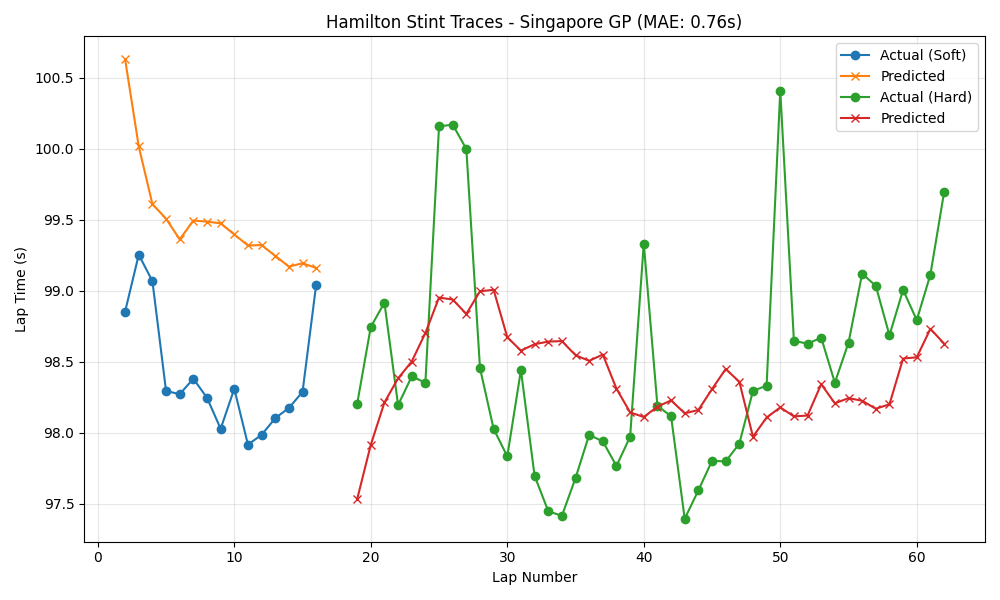
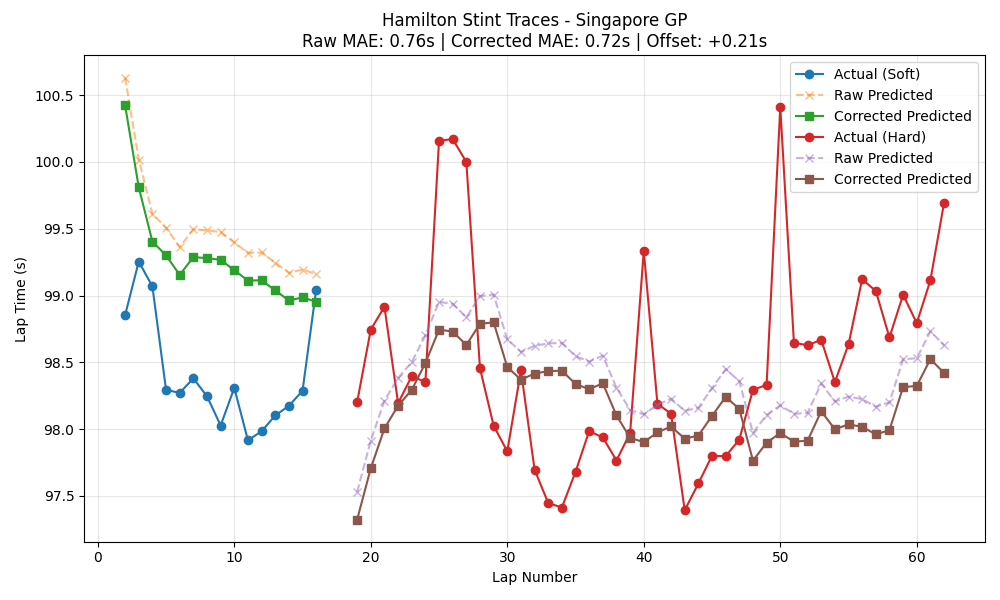
Added an offset to Lap Time Prediction

diff --git a/validation/validation.py b/validation/validation.py
@@ -10,20 +10,14 @@ from f1_gym.lap_predictor import LapPredictor
 from f1_gym.env.f1_real_env import F1RealEnv
 from data.fastf1_data_extraction import COMPOUND_MAP
 
-TEST_RACES = [
-    "Abu Dhabi Grand Prix",
-    "Austrian Grand Prix",
-    "Italian Grand Prix",
-    "Miami Grand Prix",
-    "Singapore Grand Prix",
-]
+TEST_RACES = ['Chinese Grand Prix', 'Hungarian Grand Prix', 'Singapore Grand Prix',
+                    'Bahrain Grand Prix', 'Mexico City Grand Prix']
 YEAR = 2024
 TEST_DIR = "data/test_races"
 OUTPUT_DIR = os.path.dirname(__file__)
 COMPOUND_NAMES = {1: "Soft", 2: "Medium", 3: "Hard"}
 
 # Checks how well the lap time model predicts lap times
-
 # Predicts on the same data the model was trained on
 # And leave-one-driver_out validation (train on all drivers, test on held out, repeat for each driver)
 def validate_lap_prediction(predictor: LapPredictor):
@@ -123,9 +117,56 @@ def validate_anchoring():
     df = pd.DataFrame(rows)
     return df
 
+# Computes the pace offset per race and shows the MAE improvement for HAM
+# Offset = mean(predicted - actual) on clean laps for target driver
+# Corrected prediction = raw prediction - offset
+def validate_pace_offset(predictor: LapPredictor):
+    rows = []
+
+    for race in TEST_RACES:
+        session = predictor.extractor.load_session(YEAR, race)
+        laps = session.laps.copy()
+        valid = laps[
+            (laps['IsAccurate'] == True) &
+            (laps['PitInTime'].isna()) &
+            (laps['PitOutTime'].isna())
+        ].copy()
+        valid["LapTimeSec"] = valid["LapTime"].dt.total_seconds()
+        valid["CompoundID"] = valid["Compound"].map(COMPOUND_MAP)
+        valid = valid.sort_values(["Driver", "LapNumber"])
+        valid["TyreAge"] = valid.groupby(["Driver", "Stint"]).cumcount() + 1
+        valid = valid[["Driver", "LapNumber", "TyreAge", "CompoundID", "LapTimeSec"]].dropna()
+        features = ["LapNumber", "TyreAge", "CompoundID"]
+
+        # Use model (trained on all drivers)
+        model = LapPredictor.load_model(race)
+        ham = valid[valid["Driver"] == "HAM"]
+        if ham.empty:
+            continue
+
+        raw_preds = model.predict(ham[features])
+        errors = raw_preds - ham["LapTimeSec"].values
+        offset = np.mean(errors)
+        corrected_preds = raw_preds - offset
+
+        mae_before = mean_absolute_error(ham["LapTimeSec"], raw_preds)
+        mae_after = mean_absolute_error(ham["LapTimeSec"], corrected_preds)
+
+        rows.append({
+            "Race": race,
+            "HAM Laps": len(ham),
+            "Offset (s)": round(offset, 3),
+            "MAE Before (s)": round(mae_before, 3),
+            "MAE After (s)": round(mae_after, 3),
+            "Improvement (s)": round(mae_before - mae_after, 3),
+        })
+
+    return pd.DataFrame(rows)
+
+
 # Removes target from testing
 # Trains random forest on all other drivers, test on target
-# Plots actual vs predicted across each stint
+# Plots actual vs predicted across each stint, with and without pace offset correction
 def plot_stint_traces(predictor: LapPredictor):
     plot_dir = os.path.join(OUTPUT_DIR, "stint_traces")
     os.makedirs(plot_dir, exist_ok=True)
@@ -151,18 +192,26 @@ def plot_stint_traces(predictor: LapPredictor):
         model = RandomForestRegressor(n_estimators=100, random_state=6)
         model.fit(train[features], train["LapTimeSec"])
 
-        predictions = model.predict(held_out[features])
-        mae = mean_absolute_error(held_out["LapTimeSec"], predictions)
+        raw_preds = model.predict(held_out[features])
+        errors = raw_preds - held_out["LapTimeSec"].values
+        offset = np.mean(errors)
+        corrected_preds = raw_preds - offset
+
+        mae_raw = mean_absolute_error(held_out["LapTimeSec"], raw_preds)
+        mae_corrected = mean_absolute_error(held_out["LapTimeSec"], corrected_preds)
 
         fig, ax = plt.subplots(figsize=(10, 6))
         for stint_id, group in held_out.groupby("Stint"):
-            prediction = model.predict(group[features])
+            stint_raw = model.predict(group[features])
+            stint_corrected = stint_raw - offset
             compoundid = int(group["CompoundID"].iloc[0])
-            label = f"Actual ({COMPOUND_NAMES.get(compoundid, "?")})"
+            label = f"Actual ({COMPOUND_NAMES.get(compoundid, '?')})"
             ax.plot(group["LapNumber"].values, group["LapTimeSec"].values, label=label, marker="o")
-            ax.plot(group["LapNumber"].values, prediction, marker="x", label="Predicted")
+            ax.plot(group["LapNumber"].values, stint_raw, marker="x", linestyle="--", alpha=0.5, label="Raw Predicted")
+            ax.plot(group["LapNumber"].values, stint_corrected, marker="s", label="Corrected Predicted")
 
-        ax.set_title(f"Hamilton Stint Traces - {race.replace(' Grand Prix', ' GP')} (MAE: {mae:.2f}s)")
+        ax.set_title(f"Hamilton Stint Traces - {race.replace(' Grand Prix', ' GP')}\n"
+                     f"Raw MAE: {mae_raw:.2f}s | Corrected MAE: {mae_corrected:.2f}s | Offset: {offset:+.2f}s")
         ax.set_xlabel("Lap Number")
         ax.set_ylabel("Lap Time (s)")
         ax.legend()
@@ -179,11 +228,15 @@ if __name__ == "__main__":
     predictor = LapPredictor()
     lap_prediction_results = validate_lap_prediction(predictor)
     anchoring_results = validate_anchoring()
+    pace_offset_results = validate_pace_offset(predictor)
     plot_stint_traces(predictor)
 
     # Save to CSV
     csv_path = os.path.join(OUTPUT_DIR, "lap_prediction_validation.csv")
     with open(csv_path, "w") as f:
         lap_prediction_results.to_csv(f, index=False)
+        f.write("\n")
         anchoring_results.to_csv(f, index=False)
+        f.write("\n")
+        pace_offset_results.to_csv(f, index=False)
     print(f"Validation results saved to {csv_path}")

diff --git a/f1_gym/components/parameters.py b/f1_gym/components/parameters.py
@@ -1,5 +1,6 @@
 from dataclasses import dataclass, field
 from typing import Dict, Any, Optional, List, Set
+import numpy as np
 import pandas as pd
 
 @dataclass
@@ -53,6 +54,9 @@ class RaceParams:
     target_compound_at_lap: List[int] = field(default_factory=list)
     target_tyre_age_at_lap: List[int] = field(default_factory=list)
 
+    # Pace offset: mean(predicted - actual) on clean laps for the target driver
+    target_pace_offset: float = 0.0
+
     # Safety car lap numbers
     sc_laps: Set[int] = field(default_factory=set)
 
@@ -101,11 +105,11 @@ class RaceParams:
         
         # Case 3: agent pits but target didn't -> use predictor for agent's compound/age (clean lap time). Caller adds pit loss separately.
         if agent_is_pitting and not is_target_pit:
-            return self.predict(agent_compound_id, agent_tyre_age, current_lap)
+            return self.predict(agent_compound_id, agent_tyre_age, current_lap) - self.target_pace_offset
 
         # Case 4: target pitted but agent stays out -> target's real lap time is inflated by pit stop, so fall back to predictor for agent's compound/age (clean lap time)
         if is_target_pit and not agent_is_pitting:
-            return self.predict(agent_compound_id, agent_tyre_age, current_lap)
+            return self.predict(agent_compound_id, agent_tyre_age, current_lap) - self.target_pace_offset
 
         # Case 5: normal racing lap -> return target's real lap time adjusted by the delta between agent and target predicted times (accounts for compound/age differences)
         if target_real is not None and has_target_data:
@@ -118,7 +122,7 @@ class RaceParams:
             return target_real + delta
 
         # Fallback: no target data for this lap → raw predictor
-        return self.predict(agent_compound_id, agent_tyre_age, current_lap)
+        return self.predict(agent_compound_id, agent_tyre_age, current_lap) - self.target_pace_offset
     
     @classmethod
     def from_race_data(cls, race_data: Dict[str, Any], predictor: Optional[Any] = None) -> 'RaceParams':
@@ -168,6 +172,25 @@ class RaceParams:
             for lap_num in range(start, end + 1):
                 sc_laps.add(lap_num)
 
+        # Compute target pace offset: mean(predicted - actual) on clean laps
+        target_pace_offset = 0.0
+        if predictor is not None and target_lap_times:
+            clean_errors = []
+            for lap in range(1, min(total_laps, len(target_lap_times)) + 1):
+                if lap in sc_laps or lap in target_pit_laps:
+                    continue
+                i = lap - 1
+                pred = float(predictor.predict(
+                    pd.DataFrame([{
+                        'LapNumber': lap,
+                        'TyreAge': target_tyre_age_at_lap[i],
+                        'CompoundID': target_compound_at_lap[i]
+                    }])[['LapNumber', 'TyreAge', 'CompoundID']]
+                )[0])
+                clean_errors.append(pred - target_lap_times[i])
+            if clean_errors:
+                target_pace_offset = float(np.mean(clean_errors))
+
         return cls(
             track=track,
             compounds=compounds,
@@ -176,5 +199,6 @@ class RaceParams:
             target_pit_laps=target_pit_laps,
             target_compound_at_lap=target_compound_at_lap,
             target_tyre_age_at_lap=target_tyre_age_at_lap,
+            target_pace_offset=target_pace_offset,
             sc_laps=sc_laps,
         )
